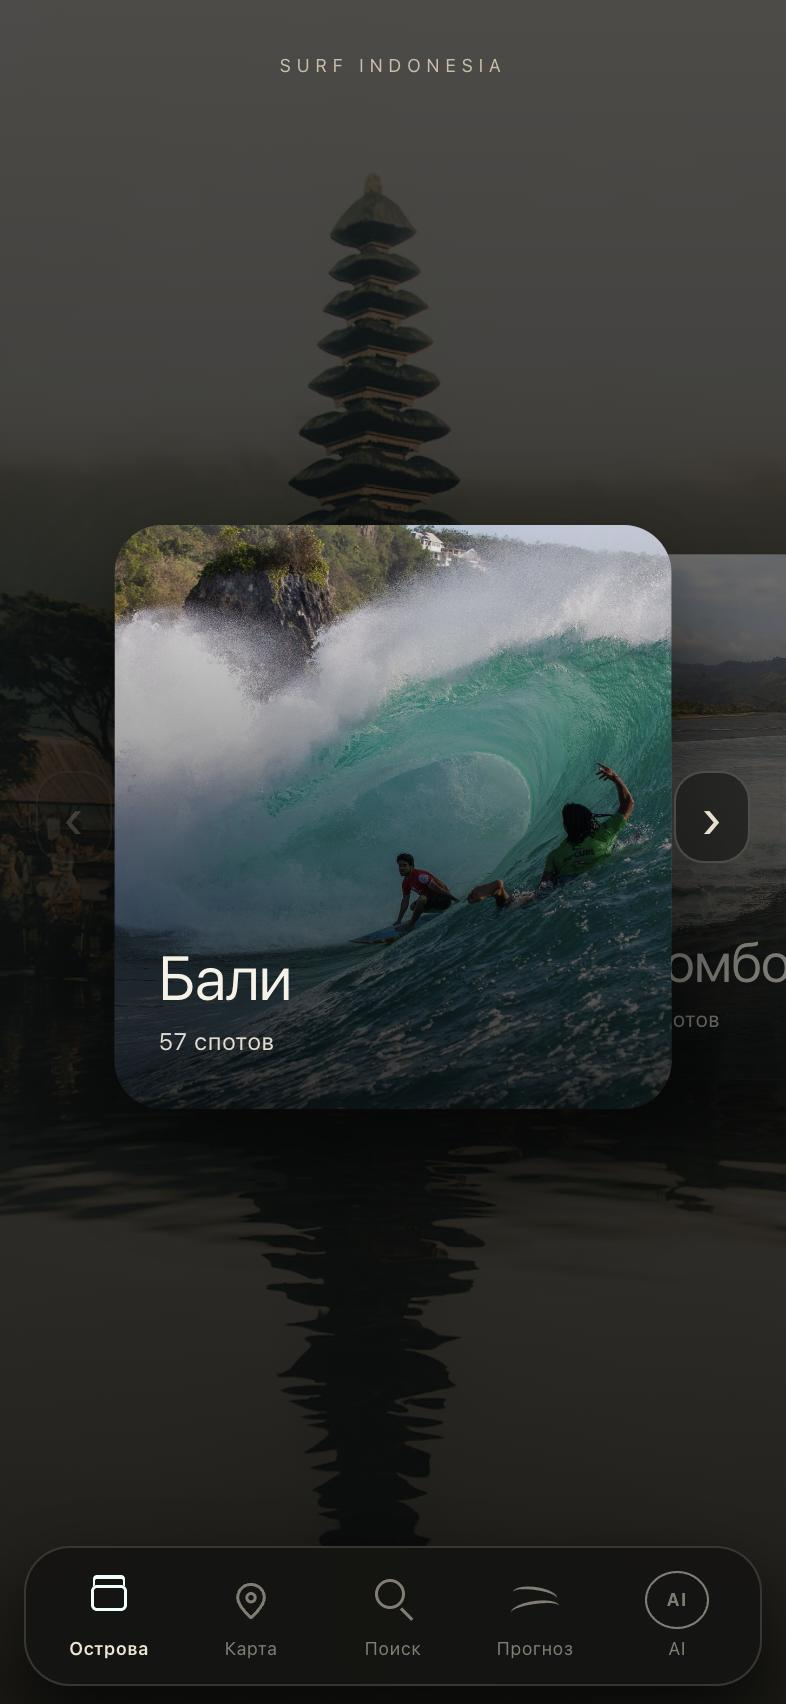
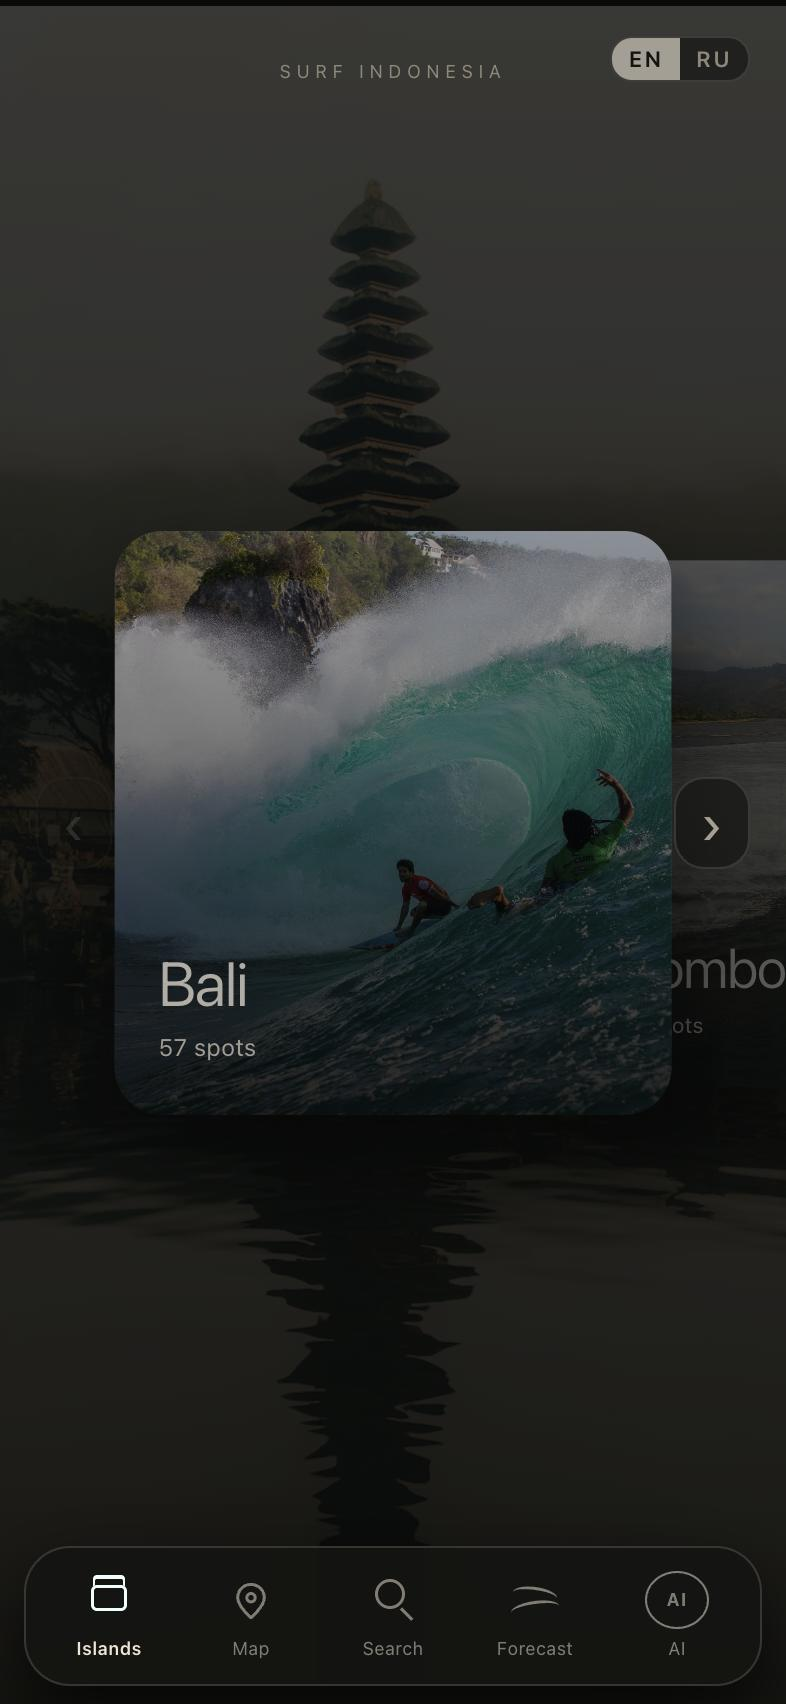
Show the English interface and mention the language switch

diff --git a/README.md b/README.md
@@ -12,6 +12,7 @@ A Telegram bot with a Mini App for surfers. The source code is private; this pag
 - A personal surfer profile (level, board, wave size, break type) that tunes the recommendations
 - Favourite spots and a spot map
 - An AI assistant that answers surf questions using the live conditions
+- English and Russian interface: the language follows the Telegram language and can be switched in the app
 
 ## How it is built
 
@@ -26,7 +27,7 @@ A Telegram bot with a Mini App for surfers. The source code is private; this pag
 
 ## Screenshots
 
-The interface is in Russian.
+The interface is available in English and Russian.
 
 | Islands | Map | Spot | Forecast |
 |---|---|---|---|
